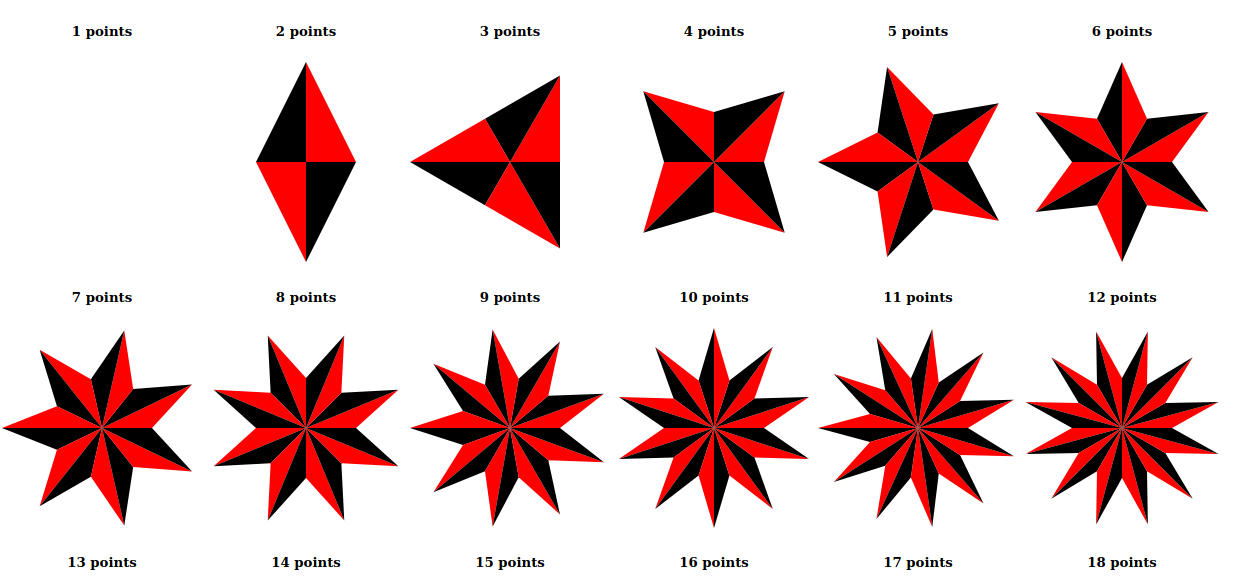
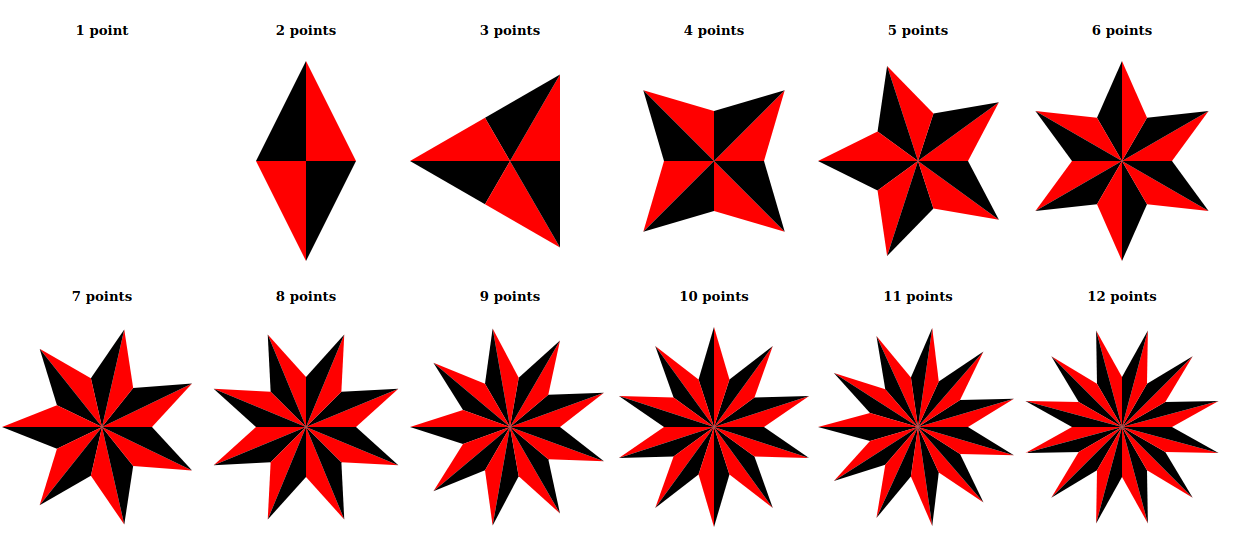
image fixed

diff --git a/public/js/my-wife-star.js b/public/js/my-wife-star.js
@@ -1,270 +1,2 @@
-System.register("radian", ["radian"], function (exports_1, context_1) {
-    "use strict";
-    var radian_1, Radian;
-    var __moduleName = context_1 && context_1.id;
-    return {
-        setters: [
-            function (radian_1_1) {
-                radian_1 = radian_1_1;
-            }
-        ],
-        execute: function () {
-            Radian = class Radian {
-                constructor(value) {
-                    this.value = value;
-                }
-                toAngle() {
-                    return new radian_1.default(this.value * 180 / Math.PI);
-                }
-            };
-            exports_1("default", Radian);
-        }
-    };
-});
-System.register("angle", ["radian"], function (exports_2, context_2) {
-    "use strict";
-    var radian_2, Angle;
-    var __moduleName = context_2 && context_2.id;
-    return {
-        setters: [
-            function (radian_2_1) {
-                radian_2 = radian_2_1;
-            }
-        ],
-        execute: function () {
-            Angle = class Angle {
-                constructor(value) {
-                    this.value = value;
-                }
-                toRadian() {
-                    return new radian_2.default(this.value * Math.PI / 180);
-                }
-            };
-            exports_2("default", Angle);
-        }
-    };
-});
-System.register("point", [], function (exports_3, context_3) {
-    "use strict";
-    var Point2D;
-    var __moduleName = context_3 && context_3.id;
-    return {
-        setters: [],
-        execute: function () {
-            Point2D = class Point2D {
-                constructor(x, y) {
-                    this.x = x;
-                    this.y = y;
-                }
-                rotate(angle) {
-                    const { value } = angle.toRadian();
-                    const rotationMatrix = [
-                        [Math.cos(value), -Math.sin(value)],
-                        [Math.sin(value), Math.cos(value)]
-                    ];
-                    // matrix multiplication
-                    return new Point2D(this.x * rotationMatrix[0][0] + this.y * rotationMatrix[1][0], this.x * rotationMatrix[0][1] + this.y * rotationMatrix[1][1]);
-                }
-            };
-            exports_3("default", Point2D);
-        }
-    };
-});
-System.register("triangle", [], function (exports_4, context_4) {
-    "use strict";
-    var Triangle;
-    var __moduleName = context_4 && context_4.id;
-    return {
-        setters: [],
-        execute: function () {
-            Triangle = class Triangle {
-                constructor(a, b, c) {
-                    this.a = a;
-                    this.b = b;
-                    this.c = c;
-                }
-            };
-            exports_4("default", Triangle);
-        }
-    };
-});
-System.register("star", ["triangle", "point", "angle"], function (exports_5, context_5) {
-    "use strict";
-    var triangle_1, point_1, angle_1, Star;
-    var __moduleName = context_5 && context_5.id;
-    return {
-        setters: [
-            function (triangle_1_1) {
-                triangle_1 = triangle_1_1;
-            },
-            function (point_1_1) {
-                point_1 = point_1_1;
-            },
-            function (angle_1_1) {
-                angle_1 = angle_1_1;
-            }
-        ],
-        execute: function () {
-            Star = class Star {
-                constructor(position, size, numPoints = 5) {
-                    this.triangles = [];
-                    this.size = size;
-                    this.position = position;
-                    this.numPoints = numPoints;
-                    this.generateStar();
-                }
-                generateStar() {
-                    const circleOutRadius = this.size / 2;
-                    const circleInRadius = circleOutRadius / 2;
-                    const innerPoints = this.generateCirclePoints(circleInRadius);
-                    const outerPoints = this.generateCirclePoints(circleOutRadius).map(point => point.rotate(new angle_1.default(360 / this.numPoints / 2)));
-                    this.triangles = this.generateTriangles(innerPoints, outerPoints);
-                }
-                generateCirclePoints(radius) {
-                    const angle = new angle_1.default(360.0 / this.numPoints);
-                    const startPoint = new point_1.default(radius, 0);
-                    const points = [startPoint];
-                    for (let i = 1; i < this.numPoints; i++) {
-                        const point = points[i - 1];
-                        points.push(point.rotate(angle));
-                    }
-                    return points;
-                }
-                generateTriangles(innerPoints, outerPoints) {
-                    const triangles = [];
-                    const numPoints = innerPoints.length;
-                    for (let i = 0; i < numPoints; i++) {
-                        const nextI = (i + 1) % numPoints;
-                        triangles.push(new triangle_1.default(this.position, outerPoints[i], innerPoints[i]));
-                        triangles.push(new triangle_1.default(this.position, outerPoints[i], innerPoints[nextI]));
-                    }
-                    return triangles;
-                }
-            };
-            exports_5("default", Star);
-        }
-    };
-});
-System.register("board", [], function (exports_6, context_6) {
-    "use strict";
-    var Board;
-    var __moduleName = context_6 && context_6.id;
-    return {
-        setters: [],
-        execute: function () {
-            Board = class Board {
-                constructor(context, width, height) {
-                    this.width = width;
-                    this.height = height;
-                    this.context = context;
-                    this.configure();
-                }
-                configure() {
-                    this.context.translate(this.width / 2.0, this.height / 2.0);
-                }
-                drawLine(from, to) {
-                    this.context.moveTo(from.x, from.y);
-                    this.context.lineTo(to.x, to.y);
-                    this.context.stroke();
-                }
-                drawCircle(center, radius) {
-                    this.context.beginPath();
-                    this.context.arc(center.x, center.y, radius, 0, 2 * Math.PI);
-                    this.context.stroke();
-                }
-                fillCircle(center, radius, color = 'black') {
-                    this.context.beginPath();
-                    this.context.arc(center.x, center.y, radius, 0, 2 * Math.PI);
-                    this.context.fillStyle = color;
-                    this.context.fill();
-                }
-                drawTriangle(triangle) {
-                    this.context.beginPath();
-                    this.context.moveTo(triangle.a.x, triangle.a.y);
-                    this.context.lineTo(triangle.b.x, triangle.b.y);
-                    this.context.lineTo(triangle.c.x, triangle.c.y);
-                    this.context.lineTo(triangle.a.x, triangle.a.y);
-                    this.context.stroke();
-                }
-                fillTriangle(triangle, color = 'black') {
-                    this.context.beginPath();
-                    this.context.moveTo(triangle.a.x, triangle.a.y);
-                    this.context.lineTo(triangle.b.x, triangle.b.y);
-                    this.context.lineTo(triangle.c.x, triangle.c.y);
-                    this.context.lineTo(triangle.a.x, triangle.a.y);
-                    this.context.fillStyle = color;
-                    this.context.fill();
-                }
-                drawPoint(point, radius = 2) {
-                    this.drawCircle(point, radius);
-                }
-                fillPoint(point, radius = 2, color = 'black') {
-                    this.fillCircle(point, radius, color);
-                }
-                drawStar(star) {
-                    for (const triangle of star.triangles) {
-                        this.drawTriangle(triangle);
-                    }
-                }
-                fillStar(star, colors = ['red', 'black']) {
-                    let pos = -1;
-                    const nextColor = () => {
-                        pos = (pos + 1) % colors.length;
-                        return colors[pos];
-                    };
-                    for (const triangle of star.triangles) {
-                        const color = nextColor();
-                        this.fillTriangle(triangle, color);
-                    }
-                }
-            };
-            exports_6("default", Board);
-        }
-    };
-});
-System.register("index", ["board", "star", "point"], function (exports_7, context_7) {
-    "use strict";
-    var board_1, star_1, point_2, root, container, starSize, totalPoints;
-    var __moduleName = context_7 && context_7.id;
-    return {
-        setters: [
-            function (board_1_1) {
-                board_1 = board_1_1;
-            },
-            function (star_1_1) {
-                star_1 = star_1_1;
-            },
-            function (point_2_1) {
-                point_2 = point_2_1;
-            }
-        ],
-        execute: function () {
-            root = document.querySelector('#root');
-            container = document.createElement('div');
-            container.style.display = 'flex';
-            container.style.flexWrap = 'wrap';
-            root.appendChild(container);
-            starSize = 200;
-            totalPoints = 30;
-            for (let i = 1; i <= totalPoints; i++) {
-                const canvas = document.createElement('canvas');
-                canvas.width = starSize;
-                canvas.height = starSize;
-                const text = document.createElement('h5');
-                text.innerHTML = `${i} points`;
-                text.style.textAlign = 'center';
-                const card = document.createElement('div');
-                card.style.margin = '2px';
-                card.appendChild(text);
-                card.appendChild(canvas);
-                container.appendChild(card);
-                const context = canvas.getContext('2d');
-                if (context !== null) {
-                    const board = new board_1.default(context, starSize, starSize);
-                    const star = new star_1.default(new point_2.default(0, 0), 200, i);
-                    board.fillStar(star);
-                }
-            }
-        }
-    };
-});
+!function a(o,l,u){function c(t,e){if(!l[t]){if(!o[t]){var n="function"==typeof require&&require;if(!e&&n)return n(t,!0);if(s)return s(t,!0);var i=new Error("Cannot find module '"+t+"'");throw i.code="MODULE_NOT_FOUND",i}var r=l[t]={exports:{}};o[t][0].call(r.exports,function(e){return c(o[t][1][e]||e)},r,r.exports,a,o,l,u)}return l[t].exports}for(var s="function"==typeof require&&require,e=0;e<u.length;e++)c(u[e]);return c}({1:[function(e,t,n){"use strict";var i=function(e,t,n){return t&&r(e.prototype,t),n&&r(e,n),e};function r(e,t){for(var n=0;n<t.length;n++){var i=t[n];i.enumerable=i.enumerable||!1,i.configurable=!0,"value"in i&&(i.writable=!0),Object.defineProperty(e,i.key,i)}}var a=function(e){return e&&e.__esModule?e:{default:e}};Object.defineProperty(n,"__esModule",{value:!0});var o=a(e("./radian")),l=(i(u,[{key:"toRadian",value:function(){return new o.default(this.value*Math.PI/180)}}]),u);function u(e){!function(e,t){if(!(e instanceof t))throw new TypeError("Cannot call a class as a function")}(this,u),this.value=e}n.default=l},{"./radian":5}],2:[function(e,t,n){"use strict";var i=function(e,t,n){return t&&r(e.prototype,t),n&&r(e,n),e};function r(e,t){for(var n=0;n<t.length;n++){var i=t[n];i.enumerable=i.enumerable||!1,i.configurable=!0,"value"in i&&(i.writable=!0),Object.defineProperty(e,i.key,i)}}Object.defineProperty(n,"__esModule",{value:!0});var a=(i(o,[{key:"configure",value:function(){this.context.translate(this.width/2,this.height/2)}},{key:"drawLine",value:function(e,t){this.context.moveTo(e.x,e.y),this.context.lineTo(t.x,t.y),this.context.stroke()}},{key:"drawCircle",value:function(e,t){this.context.beginPath(),this.context.arc(e.x,e.y,t,0,2*Math.PI),this.context.stroke()}},{key:"fillCircle",value:function(e,t,n){var i=2<arguments.length&&void 0!==n?n:"black";this.context.beginPath(),this.context.arc(e.x,e.y,t,0,2*Math.PI),this.context.fillStyle=i,this.context.fill()}},{key:"drawTriangle",value:function(e){this.context.beginPath(),this.context.moveTo(e.a.x,e.a.y),this.context.lineTo(e.b.x,e.b.y),this.context.lineTo(e.c.x,e.c.y),this.context.lineTo(e.a.x,e.a.y),this.context.stroke()}},{key:"fillTriangle",value:function(e,t){var n=1<arguments.length&&void 0!==t?t:"black";this.context.beginPath(),this.context.moveTo(e.a.x,e.a.y),this.context.lineTo(e.b.x,e.b.y),this.context.lineTo(e.c.x,e.c.y),this.context.lineTo(e.a.x,e.a.y),this.context.fillStyle=n,this.context.fill()}},{key:"drawPoint",value:function(e,t){var n=1<arguments.length&&void 0!==t?t:2;this.drawCircle(e,n)}},{key:"fillPoint",value:function(e,t,n){var i=1<arguments.length&&void 0!==t?t:2,r=2<arguments.length&&void 0!==n?n:"black";this.fillCircle(e,i,r)}},{key:"drawStar",value:function(e){var t=!0,n=!1,i=void 0;try{for(var r,a=e.triangles[Symbol.iterator]();!(t=(r=a.next()).done);t=!0){var o=r.value;this.drawTriangle(o)}}catch(e){n=!0,i=e}finally{try{!t&&a.return&&a.return()}finally{if(n)throw i}}}},{key:"fillStar",value:function(e,t){var n=1<arguments.length&&void 0!==t?t:["red","black"],i=-1,r=!0,a=!1,o=void 0;try{for(var l,u=e.triangles[Symbol.iterator]();!(r=(l=u.next()).done);r=!0){var c=l.value,s=(i=(i+1)%n.length,n[i]);this.fillTriangle(c,s)}}catch(e){a=!0,o=e}finally{try{!r&&u.return&&u.return()}finally{if(a)throw o}}}}]),o);function o(e,t,n){!function(e,t){if(!(e instanceof t))throw new TypeError("Cannot call a class as a function")}(this,o),this.width=t,this.height=n,this.context=e,this.configure()}n.default=a},{}],3:[function(e,t,n){"use strict";var i=function(e){return e&&e.__esModule?e:{default:e}};Object.defineProperty(n,"__esModule",{value:!0});var r=i(e("./board")),a=i(e("./star")),o=i(e("./point")),l=document.querySelector("#root"),u=document.createElement("div");u.style.display="flex",u.style.flexWrap="wrap",l.appendChild(u);for(var c=1;c<=30;c++){var s=document.createElement("canvas");s.width=200,s.height=200;var f=document.createElement("h5");f.innerHTML=c+" point"+(1===c?"":"s"),f.style.textAlign="center";var h=document.createElement("div");h.style.margin="2px",h.appendChild(f),h.appendChild(s),u.appendChild(h);var v=s.getContext("2d");if(null!==v){var d=new r.default(v,200,200),y=new a.default(new o.default(0,0),200,c);d.fillStar(y)}}},{"./board":2,"./point":4,"./star":6}],4:[function(e,t,n){"use strict";var i=function(e,t,n){return t&&r(e.prototype,t),n&&r(e,n),e};function r(e,t){for(var n=0;n<t.length;n++){var i=t[n];i.enumerable=i.enumerable||!1,i.configurable=!0,"value"in i&&(i.writable=!0),Object.defineProperty(e,i.key,i)}}Object.defineProperty(n,"__esModule",{value:!0});var a=(i(o,[{key:"rotate",value:function(e){var t=e.toRadian().value,n=[[Math.cos(t),-Math.sin(t)],[Math.sin(t),Math.cos(t)]];return new o(this.x*n[0][0]+this.y*n[1][0],this.x*n[0][1]+this.y*n[1][1])}}]),o);function o(e,t){!function(e,t){if(!(e instanceof t))throw new TypeError("Cannot call a class as a function")}(this,o),this.x=e,this.y=t}n.default=a},{}],5:[function(e,t,n){"use strict";var i=function(e,t,n){return t&&r(e.prototype,t),n&&r(e,n),e};function r(e,t){for(var n=0;n<t.length;n++){var i=t[n];i.enumerable=i.enumerable||!1,i.configurable=!0,"value"in i&&(i.writable=!0),Object.defineProperty(e,i.key,i)}}var a=function(e){return e&&e.__esModule?e:{default:e}};Object.defineProperty(n,"__esModule",{value:!0});var o=a(e("./radian")),l=(i(u,[{key:"toAngle",value:function(){return new o.default(180*this.value/Math.PI)}}]),u);function u(e){!function(e,t){if(!(e instanceof t))throw new TypeError("Cannot call a class as a function")}(this,u),this.value=e}n.default=l},{"./radian":5}],6:[function(e,t,n){"use strict";var i=function(e,t,n){return t&&r(e.prototype,t),n&&r(e,n),e};function r(e,t){for(var n=0;n<t.length;n++){var i=t[n];i.enumerable=i.enumerable||!1,i.configurable=!0,"value"in i&&(i.writable=!0),Object.defineProperty(e,i.key,i)}}var a=function(e){return e&&e.__esModule?e:{default:e}};Object.defineProperty(n,"__esModule",{value:!0});var o=a(e("./triangle")),l=a(e("./point")),u=a(e("./angle")),c=(i(s,[{key:"generateStar",value:function(){var t=this,e=this.size/2,n=e/2,i=this.generateCirclePoints(n),r=this.generateCirclePoints(e).map(function(e){return e.rotate(new u.default(360/t.numPoints/2))});this.triangles=this.generateTriangles(i,r)}},{key:"generateCirclePoints",value:function(e){for(var t=new u.default(360/this.numPoints),n=[new l.default(e,0)],i=1;i<this.numPoints;i++){var r=n[i-1];n.push(r.rotate(t))}return n}},{key:"generateTriangles",value:function(e,t){for(var n=[],i=e.length,r=0;r<i;r++){var a=(r+1)%i;n.push(new o.default(this.position,t[r],e[r])),n.push(new o.default(this.position,t[r],e[a]))}return n}}]),s);function s(e,t){var n=2<arguments.length&&void 0!==arguments[2]?arguments[2]:5;!function(e,t){if(!(e instanceof t))throw new TypeError("Cannot call a class as a function")}(this,s),this.triangles=[],this.size=t,this.position=e,this.numPoints=n,this.generateStar()}n.default=c},{"./angle":1,"./point":4,"./triangle":7}],7:[function(e,t,n){"use strict";Object.defineProperty(n,"__esModule",{value:!0});n.default=function e(t,n,i){!function(e,t){if(!(e instanceof t))throw new TypeError("Cannot call a class as a function")}(this,e),this.a=t,this.b=n,this.c=i}},{}]},{},[3]);
+//# sourceMappingURL=my-wife-star.js.map

diff --git a/src/index.ts b/src/index.ts
@@ -19,7 +19,7 @@ for (let i = 1; i <= totalPoints; i++) {
   canvas.height = starSize
 
   const text = document.createElement('h5')
-  text.innerHTML = `${i} points`
+  text.innerHTML = `${i} point${i === 1 ? '' : 's'}`
   text.style.textAlign = 'center'
 
   const card = document.createElement('div')
